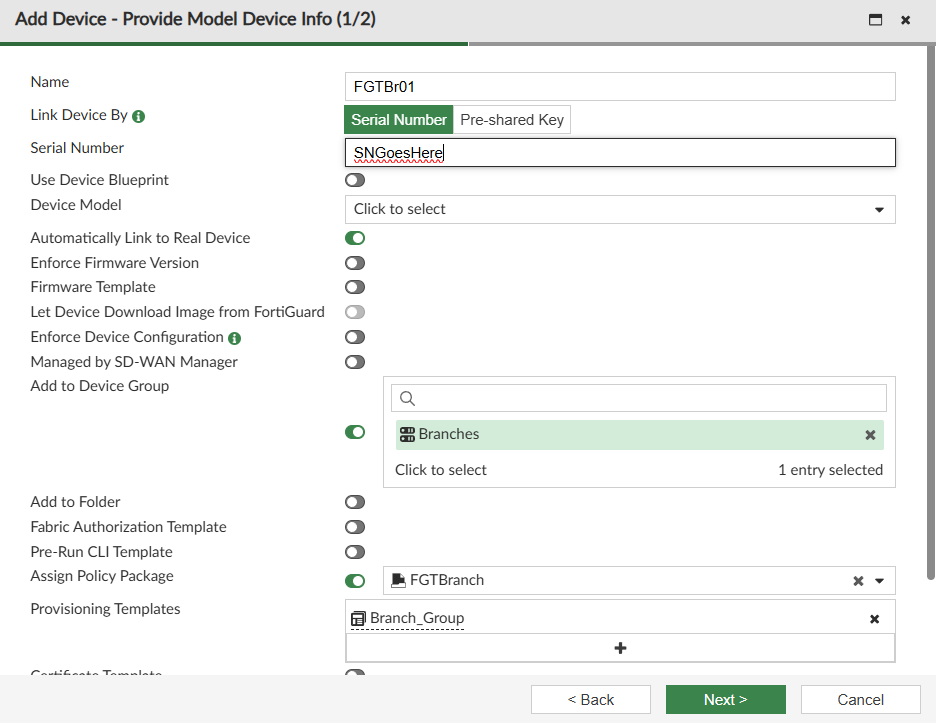
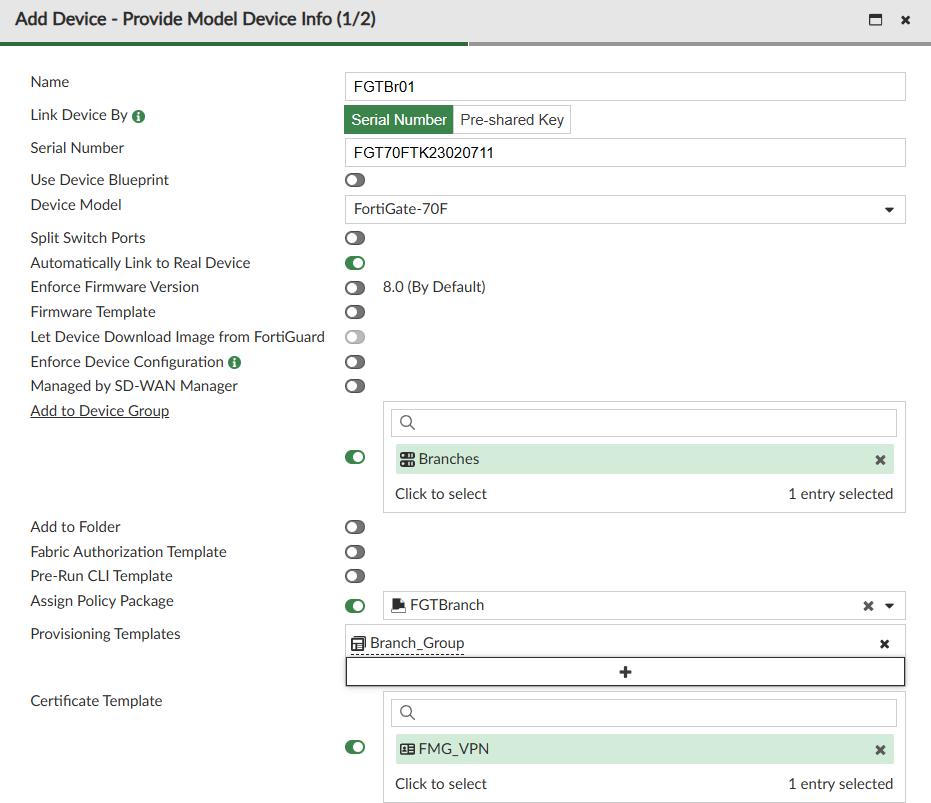
Changes for clarity

Changed region(s): [[0.0, 0.0, 1.0, 1.0], [0.0311, 0.639, 0.2492, 0.8824], [0.0623, 0.9129, 0.0934, 0.9433]]

diff --git a/labs/lab1.md b/labs/lab1.md
@@ -34,10 +34,11 @@
    - Add to device group : Branches
    - Assign Policy Package : FGTBranch
    - Provisioning Templates : Branch_Group
+   - Certificate Templates : FMG_VPN
    - Edit Meta variables and change the mapping value for
      - pod_ip : [ your pod nummber ] eg 02
      - wan_interface : wan1
-   - Leave the rest default
+   - Leave the rest default and hit Next
 
     ![](media/Lab1-3.png)
     ![](media/Lab1-4.png)
